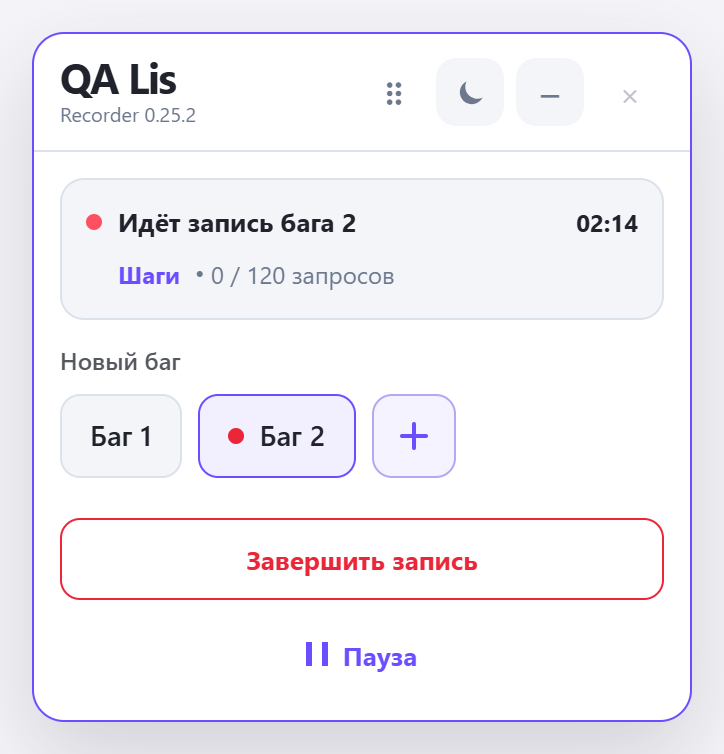
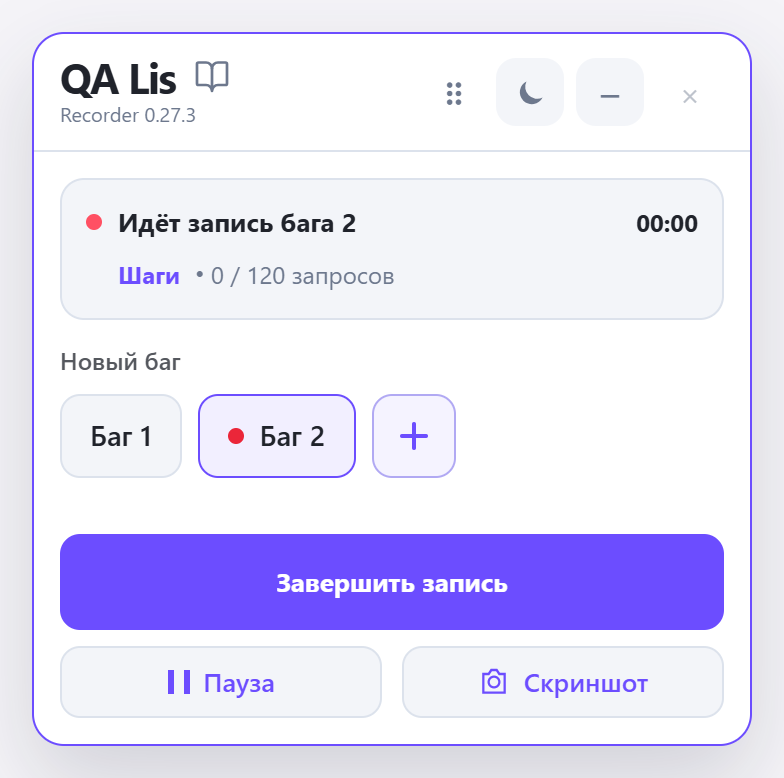
docs: update guides and screenshots for QA Lis 0.27.3

diff --git a/docs/report/screenshots.md b/docs/report/screenshots.md
@@ -1,0 +1,44 @@
+# Скриншоты бага
+
+К каждому багу можно сохранить **до трёх скриншотов**. Снимки принадлежат выбранному багу; в режиме тест-кейса эта функция не используется.
+
+## Сделать снимок
+
+1. Откройте нужный баг и нажмите кнопку камеры **Скриншот**.
+2. Выберите режим: **Выбрать область**, **Видимая область** или **Вся страница**. По умолчанию предлагается выбор области.
+3. Для выбранной области протяните рамку мышью. **Esc** отменяет выделение.
+4. Проверьте снимок и добавьте нужные отметки.
+
+Пока открыт скриншотер, управление записью в панели недоступно. Закройте скриншотер, чтобы вернуться к шагам. Кнопка **Открыть отчёт** ведёт к отчёту со снимками.
+
+Чтобы снять раскрытое меню или подсказку под курсором, используйте **Alt + Shift + S**: команда снимает видимую область. Назначение можно проверить или изменить в `chrome://extensions/shortcuts`. В настройках скриншотера доступны скрытие QA Lis на снимке и дата и время.
+
+![Скриншотер QA Lis: инструменты, снимок страницы и переход к отчёту](/images/report/screenshot-editor-light.png)
+
+## Отметить проблему и скрыть данные
+
+Используйте **Стрелка**, **Рамка** и **Скрыть данные**. Выберите инструмент и протяните отметку на снимке. Стрелку или рамку можно выбрать, переместить и удалить; доступны отмена и повтор действия.
+
+Скрытие данных после сохранения необратимо: восстановить закрытый участок из сохранённого снимка нельзя. Перед передачей проверьте весь снимок, включая адреса, имена и содержимое страницы.
+
+## Управлять снимками
+
+В разделе **Скриншоты** готового отчёта откройте нужную карточку. Доступны просмотр, редактирование, копирование изображения, **Скачать PNG**, **Переснять** и удаление. Порядок снимков можно менять; с клавиатуры — **Alt + ← / →** на элементе перемещения.
+
+Когда сохранены три снимка, для нового удалите один в отчёте. Для ещё одного снимка при свободном месте используйте **Новый скриншот**.
+
+![Готовый баг-репорт с карточкой сохранённого снимка](/images/report/screenshots-light.png)
+
+## Передать вместе с отчётом
+
+При копировании баг-репорта текст попадает в буфер обмена, а новые или изменённые снимки скачиваются отдельными PNG. Прикрепите эти файлы к задаче вручную. Уже скачанные неизменённые версии повторно не скачиваются.
+
+Если текст скопирован, но PNG скачать не удалось, используйте **Повторить скачивание** или скачайте нужный снимок из его карточки. Подробнее: [Копирование отчёта](./copy.md).
+
+## Если снимок не получается
+
+- Вернитесь в исходную вкладку: смена вкладки отменяет съёмку.
+- Не меняйте размер окна во время съёмки.
+- Если страница слишком большая, уменьшите масштаб браузера или выберите область.
+- Если содержимое или прокрутка страницы продолжают сдвигаться, повторите позже либо снимите видимую область.
+- Если снимок изменён в другой вкладке, закройте редактор и откройте его снова.

diff --git a/docs/report/step-results.md b/docs/report/step-results.md
@@ -1,0 +1,34 @@
+# Ожидаемые результаты у шагов
+
+В режиме **Тест-кейс** можно описать, что должно произойти после конкретного действия. Результат сохраняется вместе со своим шагом и включается в скопированный тест-кейс.
+
+## Выбрать элемент на странице
+
+1. Начните запись тест-кейса и выполните действие на сайте.
+2. Нажмите мишень **Добавить ожидаемый результат** в панели или используйте добавление результата у шага в списке.
+3. Выберите нужный элемент страницы. Этот выбор служит привязке результата и сам не добавляет действие в сценарий.
+4. Укажите условие и нажмите **Сохранить**.
+
+Набор условий зависит от элемента: видимость, текст, доступность кнопки, состояние или значение поля. У одного шага могут быть несколько элементов и несколько условий. Перед добавлением следующего элемента заполните условие текущего.
+
+Ожидаемый результат описывает требование к поведению сайта. Сохранение условия не означает, что тест автоматически выполнен и пройден.
+
+![Редактор ожидаемого результата: выбранный элемент и условие видимости](/images/report/step-result-editor-light.png)
+
+## Если элемент должен исчезнуть
+
+Можно подготовить условие скрытия, пока элемент ещё виден, а затем выполнить скрывающее его действие. Следуйте подсказке редактора: подготовленный результат связывается со следующим действием.
+
+Если элемент уже исчез, используйте доступный выбор из истории элементов. Если нужного элемента нет, опишите ожидаемый результат вручную. Незавершённую проверку после остановки нужно проверить и дописать в отчёте.
+
+## Просмотреть и исправить
+
+Раскройте ожидаемые результаты под нужным шагом. Их можно редактировать и удалять. При перестановке шага привязанный результат перемещается вместе с ним.
+
+Ручной результат можно дополнить в готовом отчёте. Сохраняйте изменения явно кнопкой **Сохранить**; закрытие редактора не заменяет сохранение.
+
+## В готовом тест-кейсе
+
+Шаги и их результаты находятся в общем разделе **Шаги и ожидаемые результаты**. Проверьте порядок, формулировки и незавершённые условия перед копированием. Автоматическое предложение заголовка может учитывать ожидаемые результаты; название, исправленное вручную, сохраняется.
+
+Подробнее: [Тест-кейс](./test-case.md) и [Копирование](./copy.md).

diff --git a/README.md b/README.md
@@ -1,6 +1,6 @@
 # QA Lis – документация
 
-Русскоязычный сайт на VitePress 1.6.4. Документация сверена 3 октября 2026 года с локальной реализацией QA Lis 0.25.2 (изменения по 2 октября). Версия магазина может отличаться.
+Русскоязычный сайт на VitePress 1.6.4. Тексты обновлены 10 ноября 2026 года по локальной реализации QA Lis 0.27.3. Подробности — CONTENT_REVIEW_2026-11-10.md. Скриншоты пересняты с настоящей сборки 0.27.3. Версия магазина может отличаться.
 
 ## Запуск
 
@@ -37,7 +37,7 @@ npm run docs:preview
 
 ## Скриншоты
 
-В статьях используются 25 актуальных PNG из `docs/public/images/`, снятых с настоящей сборки расширения в изолированном Chromium на учебной странице и тестовых данных, с deviceScaleFactor 2. Они не увеличены искусственно и не сгенерированы. Два прежних файла с суффиксом `02411` сохранены из истории репозитория, но в статьи не подключены.
+В статьях используются 28 актуальных PNG из `docs/public/images/`, снятых с настоящей сборки расширения в изолированном Chromium на учебной странице и тестовых данных, с deviceScaleFactor 2. Они не увеличены искусственно и не сгенерированы. Два прежних файла с суффиксом `02411` сохранены из истории репозитория, но в статьи не подключены.
 
 Изображения показывают полный целевой интерфейс с отступом по краям. Длинный отчёт снят при увеличенной высоте окна, без изменения CSS расширения. Детали запросов и Console сняты отдельно.
 
@@ -55,4 +55,4 @@ Markdown:
 
 GitHub Actions использует Node.js 24, как при локальной проверке; это соответствует требованию `node >=22` в package.json. Команда сборки – `npm run docs:build`, каталог результата – `docs/.vitepress/dist`. Остальные настройки публикации сохранены. Для Vercel учтите, что base сейчас рассчитан на размещение в подкаталоге `/bug-recorder-docs/`; проверяйте окончательный адрес перед публикацией.
 
-В рамках обновления 3 октября сайт не публиковался. Результаты: [CONTENT_REVIEW.md](CONTENT_REVIEW.md), [VALIDATION.md](VALIDATION.md).
+Результаты обновления 10 ноября описаны в CONTENT_REVIEW_2026-11-10.md. Предыдущие результаты от 3 октября сохранены для истории. Результаты: [CONTENT_REVIEW.md](CONTENT_REVIEW.md), [VALIDATION.md](VALIDATION.md).

diff --git a/docs/recorder/panel.md b/docs/recorder/panel.md
@@ -14,7 +14,7 @@
 
 Нажмите кнопку с **горизонтальной чертой** в верхней части полной панели. Это **Свернуть панель**: вместо большого окна появится компактная полоска, запись продолжится.
 
-Слева находится кнопка **Шаги**. Рядом показана выбранная запись, например **Баг 1/3**. Кнопка **«+» справа от номера записи** добавляет новый баг или тест-кейс в текущий набор, а не отдельный шаг. Справа расположены кнопки паузы, темы, завершения записи и разворачивания панели.
+Слева находится кнопка **Шаги**. Рядом показана выбранная запись, например **Баг 1/3**. Кнопка **«+» справа от номера записи** добавляет новый баг или тест-кейс в текущий набор, а не отдельный шаг. Справа расположены кнопки паузы, темы, скриншота, завершения записи и разворачивания панели.
 
 ![Мини-панель QA Lis с выбором бага и управлением записью](/images/recorder/mini-recording-light.png)
 
@@ -35,7 +35,7 @@
   </div>
   <div class="control-legend-item">
     <svg class="control-legend-icon" viewBox="0 0 24 24" aria-hidden="true" focusable="false" fill="currentColor"><path d="M20.9 13.1A9 9 0 0 1 10.9 3.1a9 9 0 1 0 10 10Z"/></svg>
-    <div><strong>Луна: переключить тему.</strong> Нажмите эту кнопку, чтобы сменить светлую тему на тёмную или наоборот. На скриншоте это фиолетовая кнопка сразу справа от шести точек.</div>
+    <div><strong>Луна: переключить тему.</strong> Нажмите эту кнопку, чтобы сменить светлую тему на тёмную или наоборот. На скриншоте это кнопка сразу справа от шести точек.</div>
   </div>
 </div>
 
@@ -52,6 +52,10 @@
 ![Неактивная кнопка закрытия: бледный крестик в правом верхнем углу панели во время записи](/images/recorder/recording-light.png)
 
 Сначала завершите запись, затем закройте отчёт или панель крестиком. Сохранённый набор при этом не удаляется.
+
+## Скриншоты и ожидаемые результаты
+
+В режиме бага кнопка камеры открывает [скриншотер](../report/screenshots.md). В режиме тест-кейса мишень позволяет [добавить ожидаемый результат к шагу](../report/step-results.md). Кнопка книги в шапке полной панели открывает документацию в отдельной вкладке.
 
 ## Горячие клавиши
 

diff --git a/docs/report/copy.md b/docs/report/copy.md
@@ -3,7 +3,7 @@
 ## Проверить состав копии
 
 1. Проверьте заголовок, шаги и результаты.
-2. Откройте **Network** и проверьте выбранный запрос и режим **Не копировать / Копировать выбранный**.
+2. Откройте **Network** и отметьте до трёх нужных запросов и проверьте режим **Не копировать / Копировать выбранные**.
 3. Переключитесь на **Console** и отдельно проверьте её выбор. Переключение вкладки диагностики не отключает копирование другой вкладки.
 4. Нажмите **Скопировать баг-репорт** или **Скопировать тест-кейс**.
 5. После сообщения об успехе вставьте текст в свой баг-трекер, документ или сообщение.
@@ -11,6 +11,10 @@
 При распознанной прикладной ошибке Network режим копирования выбранного запроса может включиться автоматически. В Console автоматически выбирается последнее Error и включается его копирование, если вы ещё не задали режим вручную. Для текста без диагностики выберите **Не копировать** в обеих вкладках.
 
 Это копирование обычного текста через буфер обмена. Прямая интеграция с Jira, YouGile или другим инструментом не требуется.
+
+## Скриншоты
+
+В баг-репорте текст копируется в буфер, а новые или изменённые скриншоты скачиваются отдельными PNG. Прикрепите файлы к задаче вручную. Если скачивание не удалось, текст может быть уже скопирован: используйте повтор скачивания. Подробнее: [Скриншоты бага](./screenshots.md).
 
 ## Сообщения у кнопки
 

diff --git a/CONTENT_REVIEW_2026-11-10.md b/CONTENT_REVIEW_2026-11-10.md
@@ -1,0 +1,11 @@
+# Обновление документации 10 ноября 2026
+
+Тексты дополнены по локальной реализации QA Lis 0.27.3. Перед правками получен опубликованный коммит e31a268 с горячими клавишами.
+
+Добавлены страницы скриншотов и ожидаемых результатов у шагов, ссылки на главной и в меню. Обновлены тест-кейс, копирование, Network и описание панели. Удалён устаревший снимок тест-кейса с отдельным полем общего результата.
+
+Источники: src/manifest.json; src/screenshots/screenshot-model.js, screenshot-i18n.js; src/recorder/core/recorder-shortcuts.js; src/network/ui/panel/network-ui-panel-navigation.js; заметки изменений октября–ноября. Версия магазина не проверялась.
+
+Все используемые изображения интерфейса пересняты с настоящей сборки 0.27.3 в изолированном Chromium на учебном сайте, с масштабом 2x. Выполнены запись, пауза/продолжение, правка шагов, создание снимка, работа с Network/Console и сохранение ожидаемого результата тест-кейса. Исторические результаты VALIDATION.md относятся к прошлому обновлению.
+
+Проверка сборки: успешно. В Chromium проверены 35 страниц на ширинах 1440, 390 и 320 px; 120 проверок изображений, 63 локальных адреса и 179 якорей — без ошибок. Вручную просмотрены кадры панели, скриншотера, редактора ОР, тест-кейса и мобильная страница новой инструкции. Снято 28 PNG текущего интерфейса.

diff --git a/docs/report/test-case.md b/docs/report/test-case.md
@@ -10,13 +10,16 @@
 | --- | --- |
 | Предусловие | Необязательное исходное состояние; до 300 символов |
 | Заголовок | Цель проверки; до 300 символов |
-| Шаги | Последовательность действий |
-| Ожидаемый результат | Ожидаемое поведение; до 800 символов |
+| Шаги и ожидаемые результаты | Действия и связанные с ними проверки |
 | Постусловие | Необязательное состояние после сценария; до 800 символов |
 
 **Фактического результата нет:** это сценарий проверки, а не отчёт о выполнении теста.
 
-![Готовый тест-кейс с предусловием, шагами, ожидаемым результатом и постусловием](/images/report/test-case-light.png)
+## Результаты отдельных шагов
+
+Во время записи используйте мишень **Добавить ожидаемый результат**: выберите элемент страницы и укажите условия. В готовом отчёте проверьте общий раздел **Шаги и ожидаемые результаты**. Можно добавить ручной результат. Подробная инструкция: [Ожидаемые результаты у шагов](./step-results.md).
+
+![Тест-кейс QA Lis 0.27.3: ожидаемый результат под соответствующим шагом](/images/report/test-case-light.png)
 
 ## Автоматическое заполнение
 

diff --git a/docs/recorder/pause.md b/docs/recorder/pause.md
@@ -4,7 +4,7 @@
 
 В полной панели нажмите **Пауза**. В мини-панели нажмите кнопку с **двумя вертикальными полосками ❚❚** сразу слева от луны. При наведении на неё появляется подсказка **Поставить на паузу**.
 
-Так выглядит мини-панель во время записи. Кнопка паузы выделена фиолетовым:
+Так выглядит мини-панель во время записи. Кнопка паузы расположена слева от переключения темы:
 
 ![Мини-панель во время записи: кнопка паузы с двумя вертикальными полосками слева от луны](/images/recorder/mini-recording-light.png)
 
@@ -18,7 +18,7 @@
 
 ## Продолжить тот же сценарий
 
-В полной панели нажмите **Продолжить запись Бага N** или соответствующую кнопку тест-кейса.
+В полной панели нажмите **Продолжить** для текущего бага или тест-кейса.
 
 В мини-панели на паузе две вертикальные полоски заменяются **треугольником ▶**. Эта кнопка находится **сразу слева от луны**. При наведении появляется подсказка с номером записи, например **Продолжить запись Бага 1**.
 

diff --git a/docs/network/requests.md b/docs/network/requests.md
@@ -32,7 +32,7 @@
 
 ## Включить в отчёт
 
-В блоке **При копировании баг-репорта** выберите **Не копировать** или **Копировать выбранный**. Во втором случае в текст попадают request и response выбранного запроса, а не весь список.
+В блоке **При копировании баг-репорта** выберите **Не копировать** или **Копировать выбранные**. Отметьте до **трёх запросов**: их request и response попадут в копию в хронологическом порядке, с отдельными нумерованными заголовками. Чтобы выбрать четвёртый, сначала снимите одну отметку. Выбор сохраняется при фильтрации и отдельно для каждой записи.
 
 При автоматически распознанной прикладной ошибке режим может включиться сам, если вы ещё не задали его вручную. Проверьте выделение и подпись перед копированием. Для исключения запроса нажмите **Не копировать**.
 

diff --git a/docs/index.md b/docs/index.md
@@ -25,6 +25,12 @@ hero:
 <a href="/bug-recorder-docs/report/"><strong>3. Подготовьте отчёт</strong><span>Проверьте результаты и диагностику, затем скопируйте текст.</span></a>
 </div>
 
+## Новые возможности
+
+- [Скриншоты бага](./report/screenshots.md): область или вся страница, стрелки, рамки и скрытие данных.
+- [Ожидаемые результаты у шагов](./report/step-results.md): элементы страницы и условия проверки в тест-кейсе.
+- [До трёх запросов Network в отчёте](./network/requests.md).
+
 ## Меньше ручной работы при каждой проверке
 
 Не восстанавливайте сценарий по памяти. QA Lis записывает действия и сохраняет технический контекст. Проверьте шаги, дополните результаты и передайте разработчику отчёт с деталями для разбора проблемы.

diff --git a/docs/report/index.md b/docs/report/index.md
@@ -10,6 +10,7 @@
 | [Шаги воспроизведения](../steps/edit.md#в-готовом-отчете) | Полноту, порядок и названия действий |
 | [Ожидаемый и фактический результаты](./expected-actual.md) | Разницу между требуемым и наблюдаемым поведением |
 | [Network](../network/requests.md) и [Console](../network/console.md) | Запросы и сообщения, связанные со сценарием |
+| [Скриншоты](./screenshots.md) | Изображения проблемы, отметки и скрытые данные |
 | [Окружение](./environment.md) | Страницу, браузер и условия отображения |
 
 ![Полный баг-репорт QA Lis: поля, Network, окружение и кнопка копирования](/images/report/report-fields-light.png)
